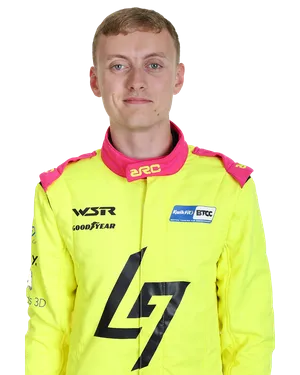
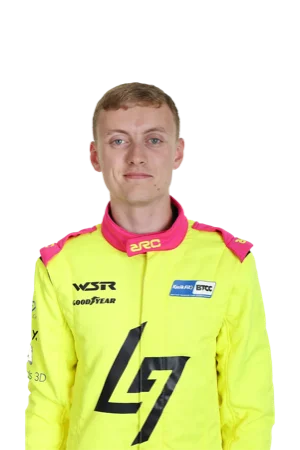
fix: pad Bensley/Gilbert headshots to full canvas, fixing "half person" look
data/driverImages/7.webp (Ryan Bensley) and 29.webp (Lewis Gilbert)
were genuine half-body crops at 683x854 instead of every other
driver's 683x1024 - a leftover from the 2026-08-19 oversized-outlier
fix, which resized the width to convention but never padded the
height shortfall. resizeMode="contain" centers by default, so both
rendered as a half-body photo floating vertically centered in
DriversScreen's tile and DriverDetailScreen's header, with the crop's
hard bottom edge visible mid-tile rather than sitting flush at the
bottom edge the way a full-body photo's feet do.

Fixed by padding transparent space above the head to reach the full
683x1024 canvas, content bottom-aligned - no content fabricated, there
was never any leg/feet data to add, this just repositions what exists
to sit where it would if the crop had been full-body. Regenerated both
bundled src/assets/driver_images/{7,29}.webp from the corrected source
via the same pipeline as the original bundling (resize to fit
max-dimension 450, webp q85) - landed at the same 300x450 convention
every correctly-behaving sibling already uses. Fixes both screens in
one asset change, since both pull the same bundled file.

Full suite (1738 tests) unaffected - no code changes, assets only.

diff --git a/README.md b/README.md
@@ -904,6 +904,8 @@ Located in [tools/scraper/](tools/scraper/). Run manually or via CI to update da
 
 **Hardcoded driver/team images** - `data/driverImages/`, `data/carImages/`, `data/numberImages/` and `data/backgroundImages/` hold official team/driver graphics (headshot, side-on car cutout, branded number graphic, 1920x600 card background respectively). `driverImages/`/`numberImages/` stay named `<car number>`; team backgrounds use `<team-slug>`. `carImages/` was renamed `<car number>` → `<driver surname>` 2026-08-21 (e.g. `patterson.webp`, `halstead.webp`) - a car number was already 1:1 with a driver, but the surname makes it legible which specific driver's livery a file is, which matters now that `carImageUrl` is read per-driver rather than once per team (see the Grid/Merch/TeamDetail entries above). All four folders are WebP end to end as of the same date (only `numberImages/` still keeps a couple of tiny flat-graphic files as PNG, where WebP wasn't smaller) - the batch had been a mix of WebP and full lossless PNG at roughly double the size for the same picture, `numberImages/123.png` (Daniel Lloyd, a grunge-textured graphic rather than the flat silhouette style of its siblings) needed lossless WebP specifically since lossy actually made it bigger. Photo-like content (cars, headshots, gradient backgrounds) compresses far better lossy; flat vector-style graphics (most number badges) don't need converting at all and can even lose ground to lossy WebP if attempted. Referenced by `raw.githubusercontent.com` URL from `data/drivers.json`: driver-level `imageUrl`/`carImageUrl`/`numberImageUrl`/`cardBgUrl`, team-level `cardBgUrl`/`carImageUrl` (`attachTeamDisplayFields()` in `src/api/parsers.js` prefers a driver's own `cardBgUrl`/`carImageUrl` over their team's, same precedence for both fields - team-level `carImageUrl` is now purely that fallback, since no screen renders it directly any more). `numberImageUrl` replaced the plain styled-text car number in `DriversScreen`/`DriverDetailScreen`/`TeamDetailScreen` (falls back to the old text rendering when absent). No scraper writes any of these four fields - swapping an image means committing a new file under the same name (or repointing the URL in `drivers.json` if the name changes), no code change or app release needed. Adding or replacing a `carImages/` file specifically also needs `python3 scripts/generate_car_thumb.py` re-run for it - `DriversScreen`/`TeamDetailScreen`/`DriverDetailScreen` all request the `-thumb` variant it generates, not the full-size original (see the Grid entry above for why), and a missing thumb 404s the same way a missing full-size file used to. Nick Halstead's headshot/car gap (both `driverImages/55.webp` and `carImages/halstead.webp`, the latter confirming his mid-season car carries a separate "Ask GVT" livery from teammate Dexter Patterson's) was filled 2026-08-21; Senna Proctor (reserve-only, no seat of his own) remains the one gap.
 
+`driverImages/7.webp` (Ryan Bensley) and `29.webp` (Lewis Gilbert) are genuine half-body source photos (683x854, not the 683x1024 every other driver's headshot is) - fixed 2026-08-21 by padding transparent space above the head to reach the full 683x1024 canvas with the existing content bottom-aligned, then regenerating both bundled `src/assets/driver_images/{7,29}.webp` from that corrected source. Previously the shorter canvas rendered as a half-body photo floating vertically centered in `DriversScreen`'s tile and `DriverDetailScreen`'s header (both `resizeMode="contain"`, which centers by default) rather than anchored to the bottom edge like every full-body photo - visible as an odd hard crop-line mid-tile rather than a clean cutout against transparent background. Padding doesn't add missing leg/feet content (there isn't any to add), it just repositions what exists to sit where a full-body photo's feet normally would, matching how every other driver's headshot already behaves in both places.
+
 **merge_schedule.py** - Merges scraped session times from `schedule.json` into `calendar.json`. Run after `scrape_schedule.py` as a separate step in `scrape-schedule.yml`.
 
 **build_team_map.py / backfill_team_names.py** - One-off historical data-migration tools, not on any schedule. `build_team_map.py` regenerates `team_name_map.json` from `drivers.json`; `backfill_team_names.py` uses that map to resolve car-model strings into real team names across `results2014.json`-`results2023.json`. Re-run manually only when historical driver/team data changes.
